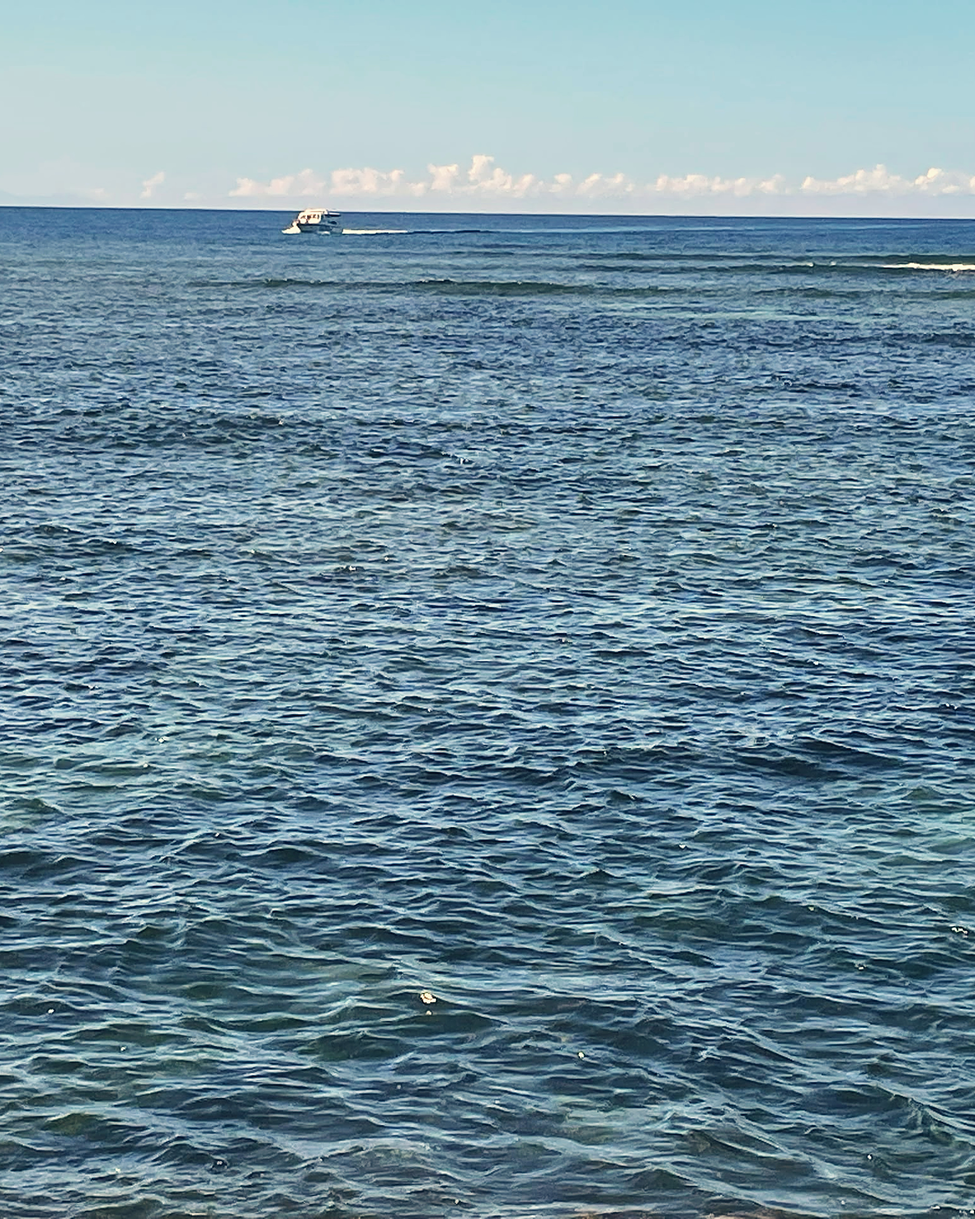
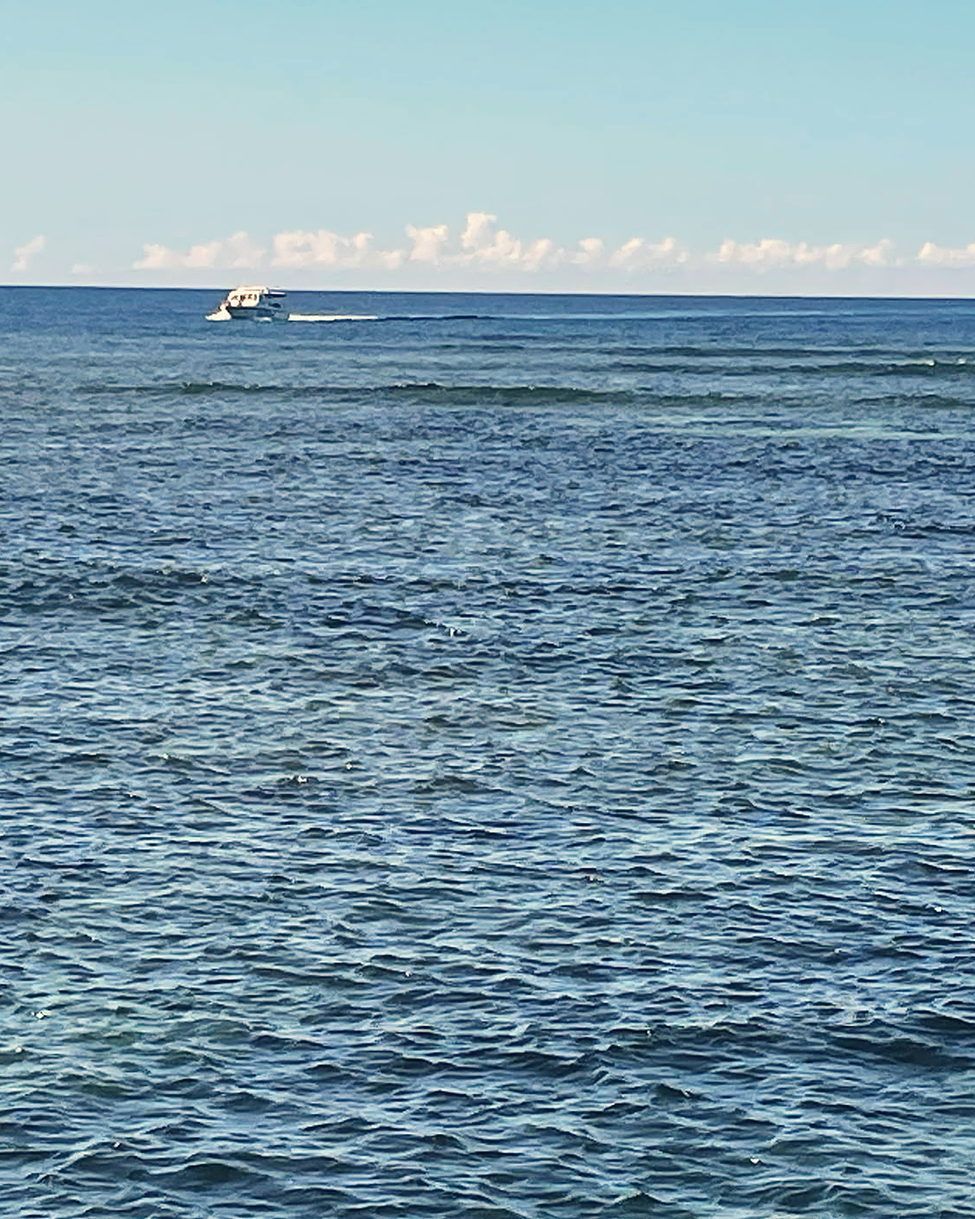
Deux corrections justes sur le flyer mer, et le texte du post
Relecture exterieure : « le bateau est un peu petit » et « on pourrait affiner
la transition du degrade ». Les deux sont justes.

· cadrage resserre de 1536 a 1120 px de large sur 2560 : la vedette occupe
  1,4 fois plus de surface, et l'ampleur reste parce que l'horizon est haut et
  la mer garde les quatre cinquiemes du cadre ;
· degrade a six arrets au lieu de quatre : a quatre, une marche etait
  perceptible vers 55 %. Il reste total a 69 %, avant le titre.

texte-quelquun-v2.txt : le texte du post, verifie — mention de fermeture
inseree au bon endroit, zero apostrophe droite, zero point d'exclamation.

Claude-Session: https://claude.ai/code/session_01BYJ87ihntXtVLQBUE1Jkoy

diff --git a/moheligo/pub/flyers/flyer44-quelquun-fb.html b/moheligo/pub/flyers/flyer44-quelquun-fb.html
@@ -50,12 +50,16 @@ body { width:1080px; height:1350px; font-family:'Inter',sans-serif; -webkit-font
 .photo { position:absolute; inset:0; overflow:hidden; }
 .photo img { width:100%; height:100%; object-fit:cover; object-position:50% 12%; display:block; }
 
-/* Le marine monte DANS la mer. Les arrêts sont calculés pour que le fondu soit
-   déjà total à 66 %, là où le titre commence : un titre posé sur un dégradé en
+/* Le marine monte DANS la mer. SIX arrêts et non quatre — sur remarque
+   extérieure : « on pourrait affiner la transition pour qu’elle soit plus
+   naturelle ». Juste. Un dégradé à quatre arrêts fait une marche perceptible
+   vers 55 % ; à six, la mer se referme sans qu’on voie où.
+   ⚠ Il reste TOTAL à 69 %, avant le titre : un titre posé sur un dégradé en
    cours de route perd son contraste ligne après ligne. */
 .fondu { position:absolute; inset:0; z-index:2;
-  background:linear-gradient(180deg, rgba(15,42,92,0) 30%, rgba(15,42,92,.42) 47%,
-             rgba(15,42,92,.88) 59%, #0F2A5C 66%); }
+  background:linear-gradient(180deg, rgba(15,42,92,0) 22%, rgba(15,42,92,.14) 34%,
+             rgba(15,42,92,.40) 45%, rgba(15,42,92,.72) 54%,
+             rgba(15,42,92,.93) 62%, #0F2A5C 69%); }
 
 .coin { position:absolute; top:0; left:0; width:404px; height:172px; background:#fff;
   clip-path:polygon(0 0, 100% 0, 78% 100%, 0 100%); z-index:6;
